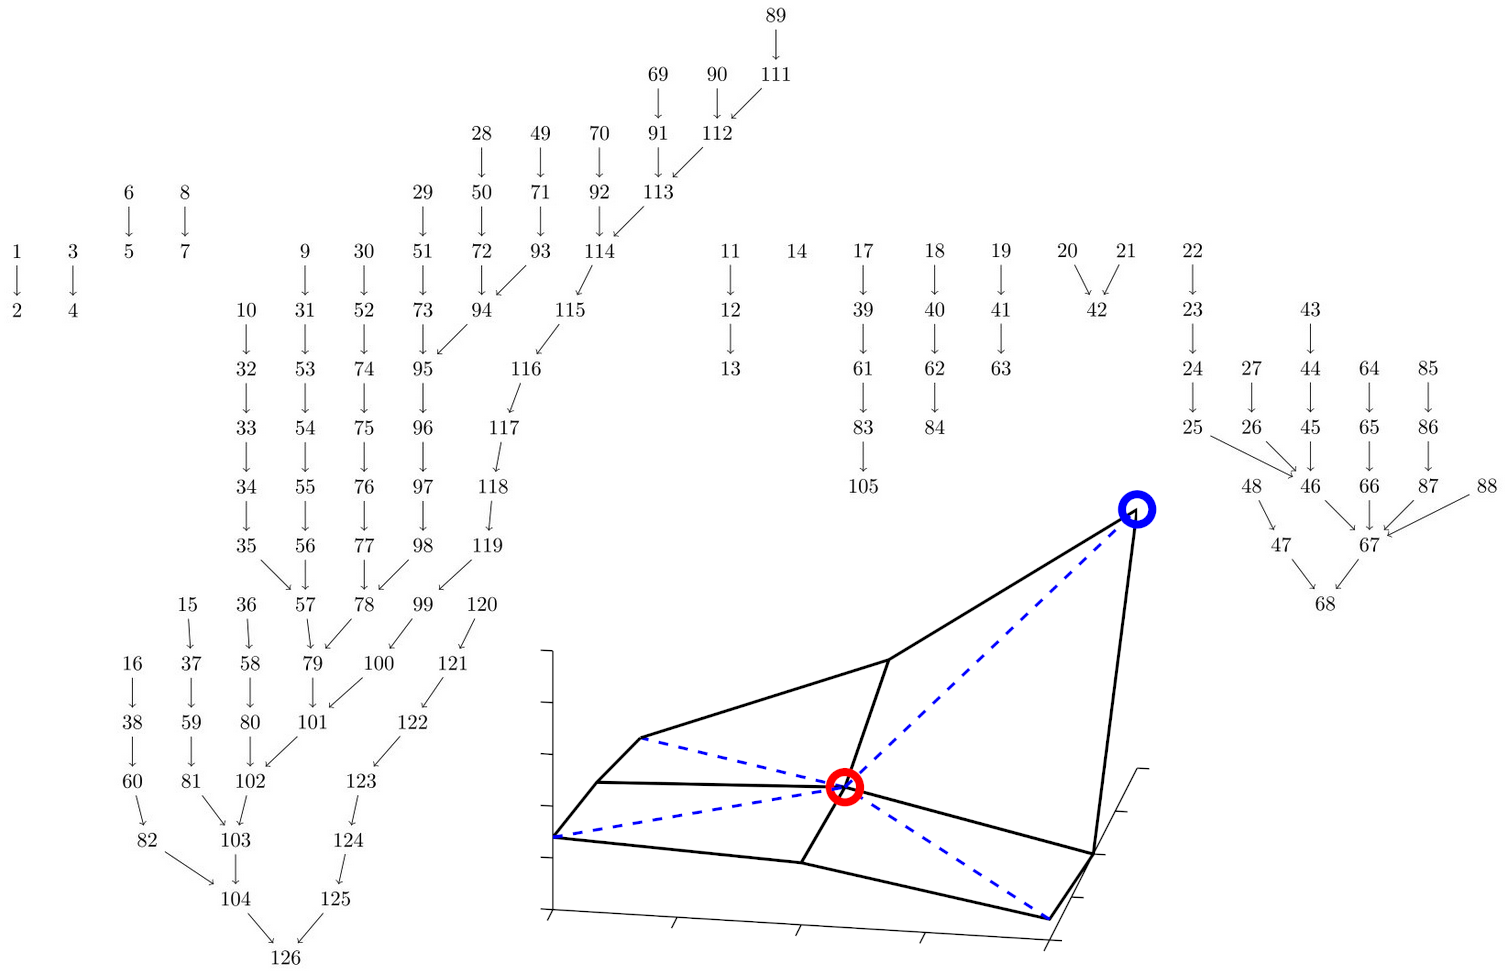
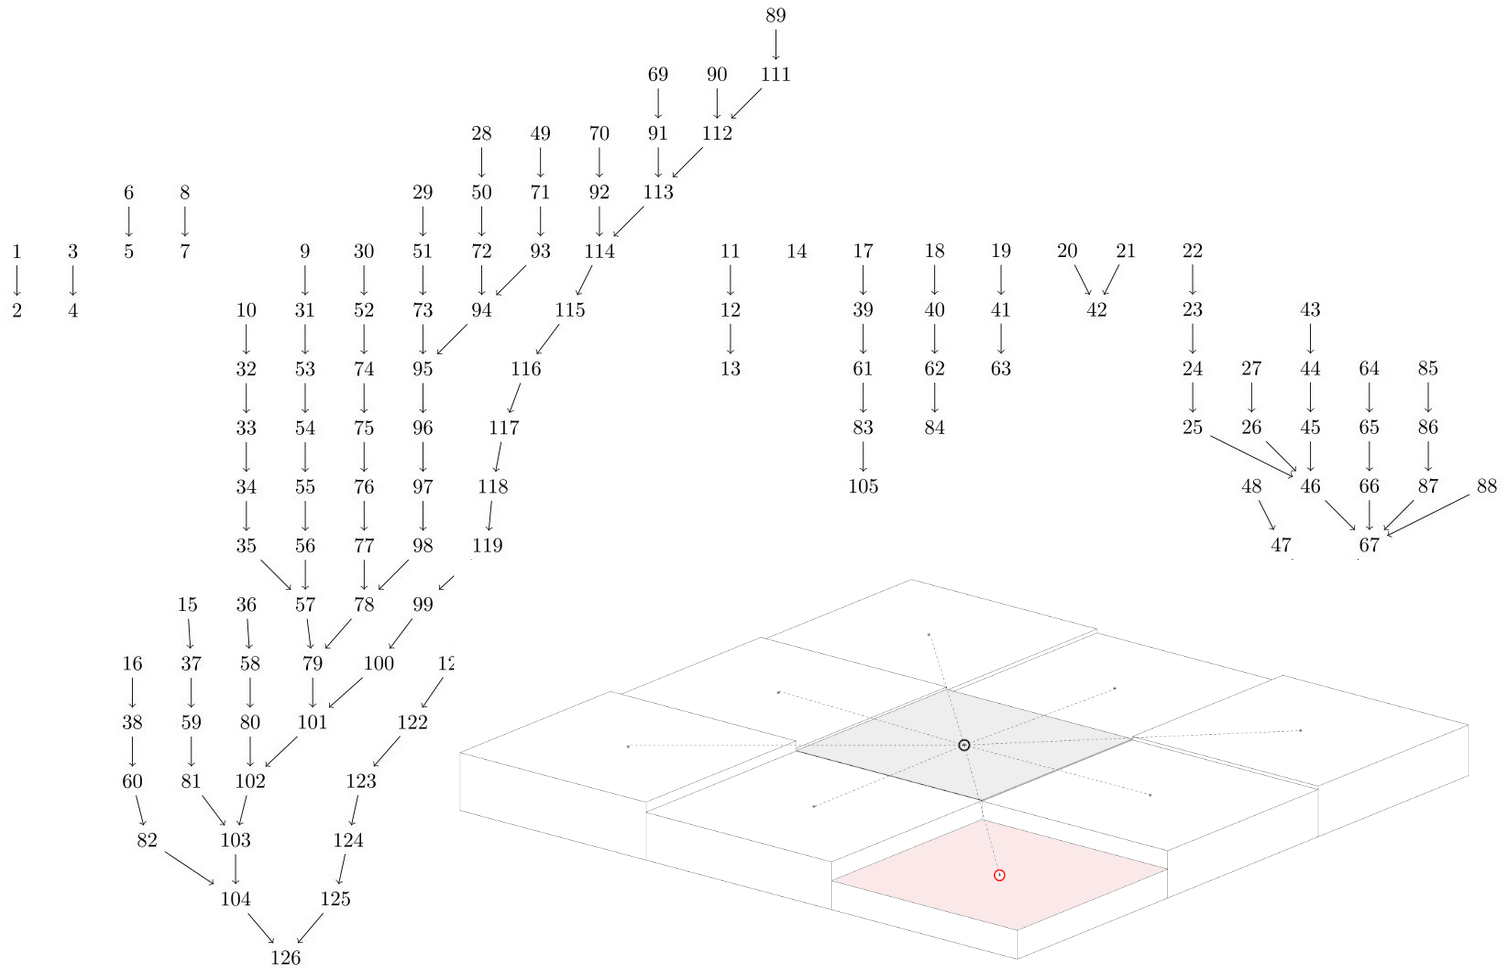
Work in progress on the JOSS draft

diff --git a/docs/JOSS/paper.md b/docs/JOSS/paper.md
@@ -1,5 +1,5 @@
 ---
-title: 'Topography-based surface water modeling in Julia, with infiltration and temporal developments'
+title: 'Topography-based surface water modeling in Julia, supporting infiltration and temporal development'
 tags: 
   - stormwater
   - topographical analysis
@@ -20,69 +20,140 @@ bibliography: paper.bib
 
 # Summary
 
-Describe high-level functionality and purpose of the software, for a diverse,
-_non-specialist_ audience.
+SWIM (Surface Water Integrated Modeling) is a Julia software package for static
+modeling and prediction of surface water and urban flooding based on analysis of
+terrain topography, terrain properties and infrastructure.
 
-Similar to an abstract.
+SWIM consists of a collection of algorithms for analysing terrain, identifying
+watershed boundaries, and providing a better understanding of how water
+accumulates and moves across the landscape.  Such analyses are valuable for
+various purposes, including water resource management, flood modeling and
+mitigation, and environmental planning.
+
+The algorithms are based on the assumption of infinitesimal flow and the
+identification of _spill points_.  Spill-point analyses are highly
+computationally efficient compared to tools based on numerical simulation.  This
+makes it easy to work interactively and test out various scenarios and measures.
+SWIM offers some unique functionality, such as simplified infiltration models
+(both permeable and impermeable surfaces) and the calculation of time
+series that model how water accumulates or drains over time, without having to
+resort to computationally intensive numerical time-stepping approaches.
 
 # Statement of need
 
-Clearly illustrates the research purpose of the software and places it in the
-context of related work.
+The damage caused by intense rainfall in urban areas can be extremely
+costly. The stormwater problem is increasing due to population growth, urban
+densification and increasingly frequent extreme weather events, and so is the
+need for long-term adaptation planning and corresponding, adequate digital tools.
 
-- flooding, both in the sense of urban flash floods and large-area flooding is
-  becoming increasingly common due to climate change.
-- Planning in a way that mitigates against flooding requires holistic thinking,
-  as it cannot be done efficiently at the site level.  Easy to use tools that
-  can do analysis on a wide geographical scale is important to facilitate
-  collaboration between stakeholders.
+Limitattion on and lack of data often makes modeling and prediction of
+stormwater flow related to intensive rainfall challenging
+[@Skaugen:2020]. Mathematical approaches to evaluate uncertianties
+[@Beven:2003], [@Zhang:2019] typically rely on the ability to run large numbers
+of simulations and scenarios.  However, use of complex hydrological simulators
+[@Langevin:2017], [@MIKESHE] are computationally very costly and may render the analysis intractable for
+most applications and users.
 
-- open source alternative
-- topography-based modeling is typically static, and doesn't take infiltration
-  or temporal developments into account.  On the other hand, PDE-based modeling
-  is very computationally heavy.  We here propose a solution that is based on
-  topography (and remains computaionally lightweight), while having a certain
-  ability to model temporal developments.
-- A model of infiltration is important when analysing/designing countermeasures
+In urban areas with extensive impervious surfaces, topography is typically the
+primary driver of stormwater flow patterns and local accumulation of surface
+water.  GIS-based models operate on a simplified premise where surface flow is
+solely determined by topography, and can provide an attractive modeling
+alternative [@Skaugen:2014], [@ARCGIS], [@SCALGO].  Such models are generally
+easy to set up and run, and require considerably fewer computational resources
+than complex hydrological simulators do.  However, drawbacks include:
 
+- Typically no ability to handle temporal developments or infiltration.
+- Sensitive to data resolution and uncertainties.
+- Lack of open-source alternatives adaptable to particular user or researcher needs.
+
+In response to these shortcomings, SWIM has been developed as a computationally
+efficient, flexible open-source prototyping software library for stormwater
+modeling.  It builds upon a GIS-based modelling approach, while enabling
+extension and generalization of the methodology.
 
 # Functionality
 
-- Static analysis including delineating hierarchies of traps (lakes) and intermittent
-  rivers, identify watersheds, estimate flow intensities
-- Terrain characteristics and infrastructure (buildings, sinks, rivers/waterbodies)
-- Infiltration
-- Time-series (infiltration, weather evolution)
+SWIM is implemented in Julia, with computational performance as a key
+goal. Input data consists solely of raster data (2D matrices), both for
+topography, terrain features, infrastructure and weather data. Functionality
+includes:
 
-All input data is based on raster grids (topography, stencils, weather)
+- Static analysis, including delineating hierarchies of traps (lakes) and
+  intermittent rivers, identifying corresponding watersheds, and estimating flow
+  intensities across terrain.
+- Integrating terrain characteristics into the analysis, including permanent
+  water bodies (rivers, lakes, ocean), buildings, obstacles and drains.
+- Simplified infiltration model that supports both permeable and impermeable
+  surfaces.
+- Dynamic analysis, including terrain response to precipitation events and
+  infiltrations over time, and routing of waters as ponds overflow.
 
 # Principle of topography-based analysis
 
 ## Spill regions and flow graph
 
-While the input data is based on raster grids, these are converted internally to
-directed graphs, which are the basis for analysis. 
+Although input data consists of raster grids, the terrain and it properties is
+internally represented as directed graphs, which form the basis of analysis.
 
-Grid cells become nodes, and directed edges are identified using the 4-point or
-8-point stencil (reference).
+The flow graph describes how water flows over the terrain from one node (grid
+cell) to the next.  To create this graph from a digital elevation model (DEM),
+SWIM uses a deterministic eight-node (D8) single-flow direction (SFD) algorithm
+[@Wilson:2008] which generates a tree-structured, generally disconnected flow
+graph \autoref{fig:upnode}. Under the D8 algorithm, flow from a given node is
+always directed towards its steepest downhill neighbor, if any.
 
-![Upnode\label{fig:upnode}](spill_graph_inlet.png){width=80%}
+![Spill graph generated from a small terrain grid.  Inlet: selecting the
+steepest downstream neighbor (pink) of a cell (gray) using the D8
+algorithm. \label{fig:upnode}](spill_graph_inlet.png){width=100%}
 
-Properties that can be deduced from graph analysis:
-- connected components represent watersheds
-- the root of each tree represents either the bottom of a trap, or the domain boundary
-- flow paths are traced by following the graph
-- flow intensities at a given node can be computed by integrating upstream
-nodes, multiplied with precipitation intensities above these node
-This is the upnode.
+Once generated, most analysis is done directly on the flow graph using standard
+graph concepts and algorithms. For instance, root nodes represent accumulation
+points in the terrain, connected components represent the associated watersheds,
+and flow intensity at a given node is obtained by integrating precitpitation
+over all its upstream nodes.
 
 ## Topological structure of lakes and rivers
 
-![Trap structure\label{fig:trap_structure}](trap_structure.png){width=100%}
+The spill graph serves as input to define a higher-level graph of traps
+("ponds", "lakes") and the intermittent stream connecting them.  Traps are
+delineated by identifying _spill points_ (lowest elevation node along the
+boundary of the catchment area for a given accumulation point).  Small traps
+typically coalesce into larger traps as they fill up, thereby defining a
+hierarchy of subtraps and supertraps.  An example of a _trap structure graph_
+representing both the upstream/downstream and the subtrap/supertrap reationships
+between traps is shown in \autoref{fig:trap_structure}.
 
-This is a trap structure.
 
-![Matrix\label{fig:synthetic_matrix}](synthetic_matrix.png){width=100%}
+![An example of a trap structure graph, illustrating both how smaller traps
+coalesce into larger traps, and how upstream traps spill into downstream
+traps.  An upstream trap is always a top-level trap spilling into a lowest-level
+subtrap downstream (indicated with dashed blue lines)\label{fig:trap_structure}](trap_structure.png){width=100%}
+
+The concepts are illustrated on a simple synthetic surface in
+\autoref{fig:synthetic_matrix}. On the upper row, the green and red traps are
+subtraps of the orange trap, which again is an upstream trap to the blue one.
+On the lower row, we see how water gradually accumulates, making the subtraps
+coalesce, and finally how water spills over to the downstream trap.
+
+![Small synthetic example of subtraps, supertraps and downstream traps.  The
+upper row shows the four traps (red, green, orange and blue) with their
+respective watersheds.  The spill points can be seen as small black dots on the
+rightmost figure.  The lower row illustrates the process of traps filling up,
+coalescing and spilling over.\label{fig:synthetic_matrix}](synthetic_matrix.png){width=100%}
+
+## Infiltration and time series
+
+The routing of water across the terrain at any given time depends on the current
+state of each trap (still filling up or spilling over), current precipitation
+rate (which may be spatially heterogeneous), and the rate of infiltration at
+each point. Infiltration at each node happens at a fixed rate (zero for
+impervious regions) capped by the node's current inflow rate. Given a weather
+scenario, specified infiltration rates and an initial fill state (typically
+empty) for each trap, it is possible to construct a sequence of events that
+identifies the moment in time when each trap fills up, and how this influences
+the subsequent routing of water. This allows the user to determine the trap fill
+states and surface water flow at any given moment, how long it takes for
+specified traps to fill, where water currently is accumulating, etc.
 
 # Example
 
@@ -94,7 +165,6 @@ This can be referenced using \autoref{fig:vulkan_model}.
 
 # Acknowledgments
 - Kartverket
-@Pearson:2017 test
 
 Mention (if applicable) a representative set of past or ongoing research
 projects using the software and recent scholarly publications enabled by it.
@@ -102,11 +172,3 @@ projects using the software and recent scholarly publications enabled by it.
 - SurbArea
 
 # References
-- Bok om hydrological modeling
-- Some paper explaining the 4 and 8 stencils
-- The NVE hydrological tool
-- SWMM
-- MikeSHE
-- Scalgo
-
-List of key references
